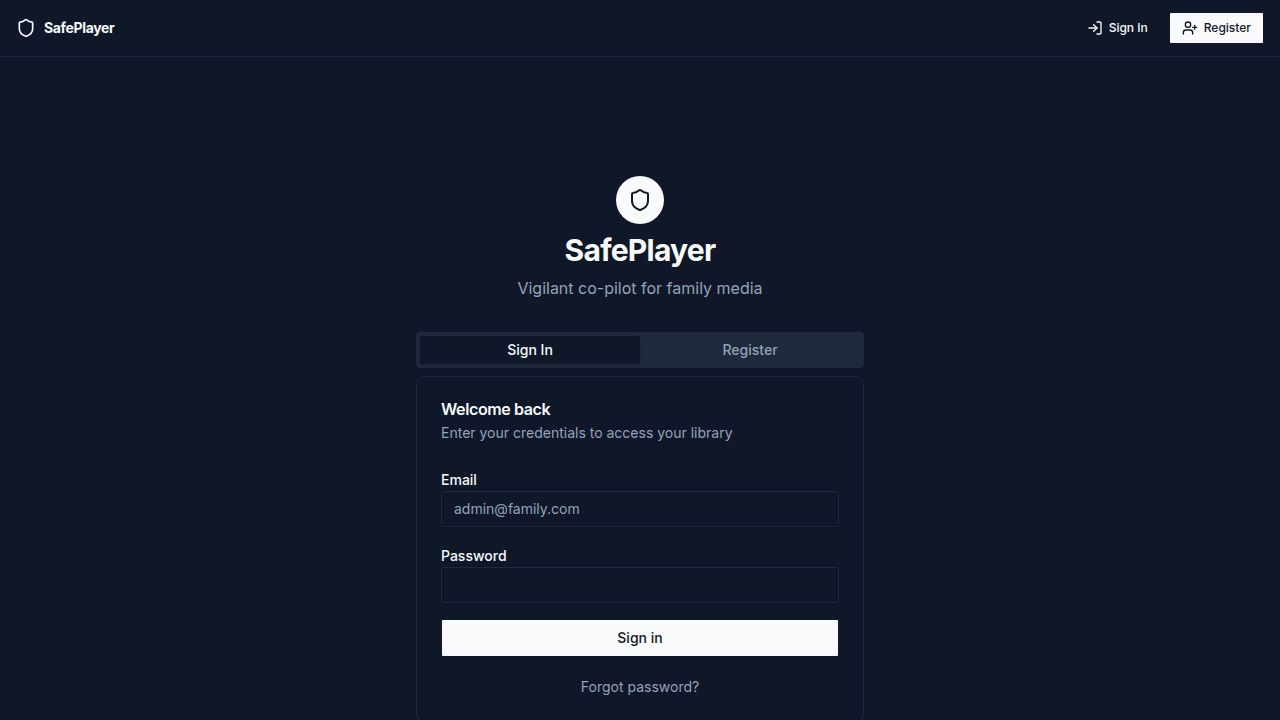
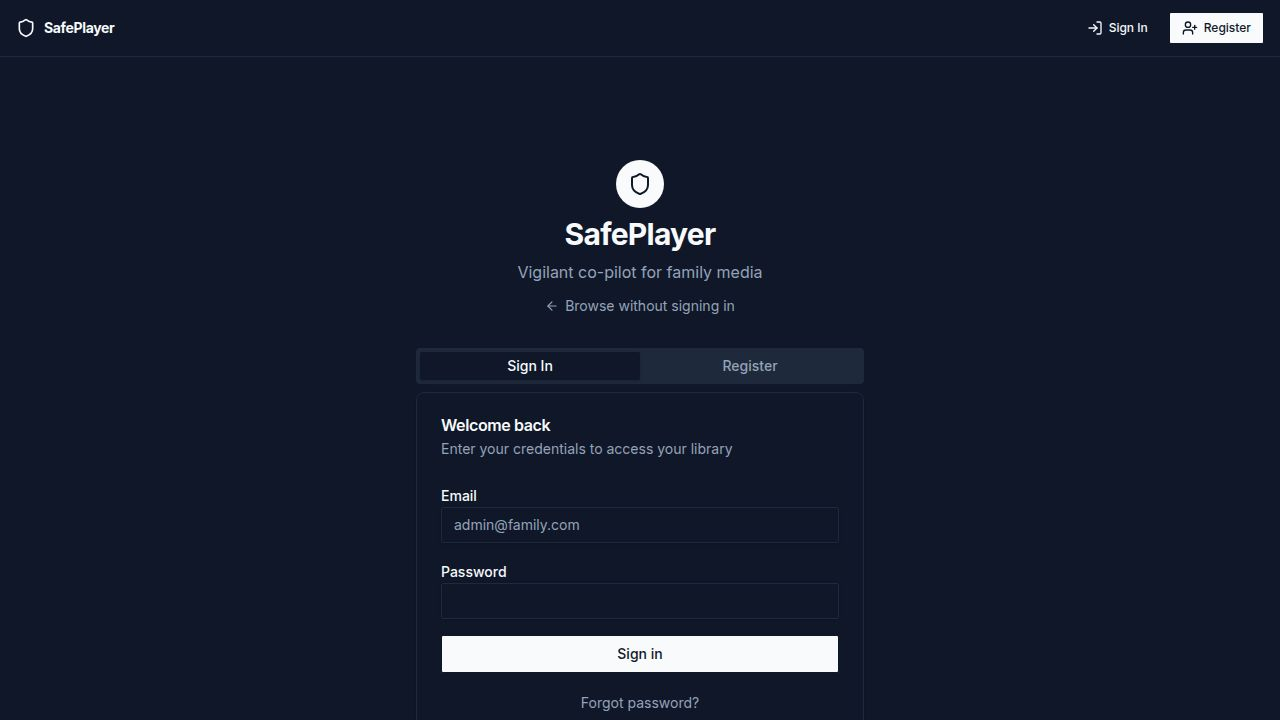
Improve media playback and access controls for all user types
Apply jump frame data retroactively to local files, enforce a 35-second preview limit for non-admin users on unreviewed content, and add a "Browse without signing in" link to the authentication page.

Replit-Commit-Author: Agent
Replit-Commit-Session-Id: 47ea2c31-84d7-49bb-b428-fefc56c812ea
Replit-Commit-Checkpoint-Type: full_checkpoint
Replit-Commit-Event-Id: 85c9397c-93f1-4e55-af07-69e88a08adf9
Replit-Commit-Screenshot-Url: https://storage.googleapis.com/screenshot-production-us-central1/9ce05a06-7a85-4874-be4b-ecd11582fcea/47ea2c31-84d7-49bb-b428-fefc56c812ea/uVl7g3l
Replit-Helium-Checkpoint-Created: true

diff --git a/artifacts/safeplayer/src/pages/player.tsx b/artifacts/safeplayer/src/pages/player.tsx
@@ -1,5 +1,5 @@
 import { useAuth } from "@/lib/auth";
-import { useState, useRef, useCallback } from "react";
+import { useState, useRef, useCallback, useEffect } from "react";
 import { getBlobUrl, storeBlobUrl } from "@/lib/mediaStore";
 import { useRoute } from "wouter";
 import {
@@ -8,7 +8,7 @@ import {
   useVerifyPin
 } from "@workspace/api-client-react";
 import { useQueryClient } from "@tanstack/react-query";
-import { ShieldCheck, ShieldAlert, AlertTriangle, Lock, Unlock, Flag, FolderOpen } from "lucide-react";
+import { ShieldCheck, ShieldAlert, AlertTriangle, Lock, Unlock, Flag, FolderOpen, Clock } from "lucide-react";
 import { Button } from "@/components/ui/button";
 import { Dialog, DialogContent, DialogDescription, DialogHeader, DialogTitle, DialogTrigger } from "@/components/ui/dialog";
 import { Input } from "@/components/ui/input";
@@ -86,10 +86,27 @@ export default function Player() {
     query: { enabled: !!mediaId, queryKey: getGetMediaQueryKey(mediaId), retry: false }
   });
 
-  const { data: jumpFrames } = useListJumpFrames(
+  const { data: jumpFrames, isLoading: isJumpFramesLoading } = useListJumpFrames(
     { mediaId },
     { query: { enabled: !!mediaId, queryKey: getListJumpFramesQueryKey({ mediaId }) } }
   );
+
+  const PREVIEW_LIMIT_SECS = 35;
+  const isViewerRestricted = !user || user.role !== "admin";
+  const hasNoJumpFrames = !isJumpFramesLoading && (jumpFrames ?? []).length === 0;
+  const [showPreviewRequired, setShowPreviewRequired] = useState(false);
+
+  // Reset preview-required overlay whenever the media changes
+  useEffect(() => { setShowPreviewRequired(false); }, [mediaId]);
+
+  // Enforce 35-second cap for non-admins on unreviewed content
+  useEffect(() => {
+    if (!isViewerRestricted || !hasNoJumpFrames || showPreviewRequired) return;
+    if (playerCurrentTime >= PREVIEW_LIMIT_SECS) {
+      videoRef.current?.pause();
+      setShowPreviewRequired(true);
+    }
+  }, [playerCurrentTime, isViewerRestricted, hasNoJumpFrames, showPreviewRequired]);
 
   const handleVerifyPin = () => {
     verifyPinMutation.mutate(
@@ -222,6 +239,31 @@ export default function Player() {
             onLocalFileLoaded={(name) => setLocalFileName(name)}
             suppressFilePickerOnPlay={media.type === "file"}
           />
+        )}
+
+        {/* 35-second preview cap overlay for non-admin on unreviewed content */}
+        {showPreviewRequired && (
+          <div className="absolute inset-0 z-40 flex flex-col items-center justify-center bg-black/85 backdrop-blur-sm text-white text-center p-6 gap-5">
+            <div className="h-16 w-16 rounded-full bg-warning/20 flex items-center justify-center">
+              <Clock className="w-8 h-8 text-warning" />
+            </div>
+            <div className="space-y-2 max-w-xs">
+              <h3 className="text-xl font-bold">Preview Limit Reached</h3>
+              <p className="text-sm text-white/75 leading-relaxed">
+                This video hasn't been reviewed by an administrator yet. Contact your admin to preview and approve this content so you can watch the full video.
+              </p>
+            </div>
+            <div className="flex gap-3 flex-wrap justify-center">
+              <Button variant="outline" className="border-white/30 text-white hover:bg-white/10" onClick={() => window.history.back()}>
+                Go Back
+              </Button>
+              {!user && (
+                <Button asChild>
+                  <a href="/">Sign In</a>
+                </Button>
+              )}
+            </div>
+          </div>
         )}
       </div>
 

diff --git a/artifacts/safeplayer/src/pages/admin.tsx b/artifacts/safeplayer/src/pages/admin.tsx
@@ -21,17 +21,17 @@ export default function AdminDashboardPage() {
   const [newPassword, setNewPassword] = useState("");
   const [isResetting, setIsResetting] = useState(false);
 
-  if (!user || user.role !== "admin") {
-    return <Redirect to="/dashboard" />;
-  }
-
+  // All hooks must be called unconditionally before any early return
   const { data: stats } = useGetAdminDashboard();
   const { data: users } = useListUsers();
   const { data: submissions } = useListSubmissions({ status: "pending" });
   const { data: flagged } = useListFlaggedContent();
-
   const approveMutation = useApproveSubmission();
   const rejectMutation = useRejectSubmission();
+
+  if (!user || user.role !== "admin") {
+    return <Redirect to="/dashboard" />;
+  }
 
   async function handleResetPassword() {
     if (!resetTarget || newPassword.length < 8) return;
@@ -59,7 +59,7 @@ export default function AdminDashboardPage() {
 
   const handleApprove = (id: number) => {
     approveMutation.mutate(
-      { submissionId: id },
+      { id },
       {
         onSuccess: () => {
           queryClient.invalidateQueries({ queryKey: getListSubmissionsQueryKey({ status: "pending" }) });
@@ -71,7 +71,7 @@ export default function AdminDashboardPage() {
 
   const handleReject = (id: number) => {
     rejectMutation.mutate(
-      { submissionId: id },
+      { id },
       {
         onSuccess: () => {
           queryClient.invalidateQueries({ queryKey: getListSubmissionsQueryKey({ status: "pending" }) });

diff --git a/artifacts/safeplayer/src/pages/settings.tsx b/artifacts/safeplayer/src/pages/settings.tsx
@@ -1,6 +1,7 @@
 import { useAuth } from "@/lib/auth";
 import { useState } from "react";
-import { useSetPin } from "@workspace/api-client-react";
+import { useSetPin, getGetMeQueryKey } from "@workspace/api-client-react";
+import { useQueryClient } from "@tanstack/react-query";
 import { Card, CardContent, CardHeader, CardTitle, CardDescription } from "@/components/ui/card";
 import { Button } from "@/components/ui/button";
 import { Input } from "@/components/ui/input";
@@ -9,8 +10,9 @@ import { useToast } from "@/hooks/use-toast";
 import { Badge } from "@/components/ui/badge";
 
 export default function Settings() {
-  const { user, login } = useAuth();
+  const { user } = useAuth();
   const { toast } = useToast();
+  const queryClient = useQueryClient();
   const [pin, setPin] = useState("");
   const setPinMutation = useSetPin();
 
@@ -26,7 +28,7 @@ export default function Settings() {
           toast({ title: "Admin PIN updated successfully" });
           setPin("");
           if (user) {
-            login({ ...user, hasPin: true });
+            queryClient.setQueryData(getGetMeQueryKey(), { ...user, hasPin: true });
           }
         },
         onError: () => {

diff --git a/artifacts/safeplayer/src/components/video-player.tsx b/artifacts/safeplayer/src/components/video-player.tsx
@@ -113,8 +113,9 @@ export const VideoPlayer = forwardRef<HTMLVideoElement, VideoPlayerProps>(
     const [isFetching, setIsFetching] = useState(false);
 
     const effectiveSrc = localSrc ?? src;
-    // Only apply DB jump frames when playing the DB-backed source; clear them for locally-opened files
-    const effectiveJumpFrames = localSrc ? [] : jumpFrames;
+    // Always apply jump frames — the parent page controls which frames are relevant
+    // Filtering must apply even when a local file is re-selected or reopened
+    const effectiveJumpFrames = jumpFrames;
 
     // Sync forwarded ref
     useEffect(() => {

diff --git a/artifacts/safeplayer/src/pages/auth.tsx b/artifacts/safeplayer/src/pages/auth.tsx
@@ -103,6 +103,13 @@ export default function AuthPage() {
           </div>
           <h1 className="text-3xl font-bold tracking-tight">SafePlayer</h1>
           <p className="text-muted-foreground">Vigilant co-pilot for family media</p>
+          <a
+            href="/dashboard"
+            className="inline-flex items-center gap-1.5 text-sm text-muted-foreground hover:text-foreground transition-colors mt-1"
+          >
+            <ArrowLeft className="w-3.5 h-3.5" />
+            Browse without signing in
+          </a>
         </div>
 
         <Tabs defaultValue="login" className="w-full">

diff --git a/artifacts/safeplayer/src/lib/auth.tsx b/artifacts/safeplayer/src/lib/auth.tsx
@@ -26,7 +26,7 @@ if (storedToken) {
 
 export function AuthProvider({ children }: { children: ReactNode }) {
   const queryClient = useQueryClient();
-  const { data: user, isLoading } = useGetMe({ query: { retry: false } });
+  const { data: user, isLoading } = useGetMe({ query: { retry: false, queryKey: getGetMeQueryKey() } });
 
   // Keep the token getter in sync whenever the component mounts.
   useEffect(() => {
